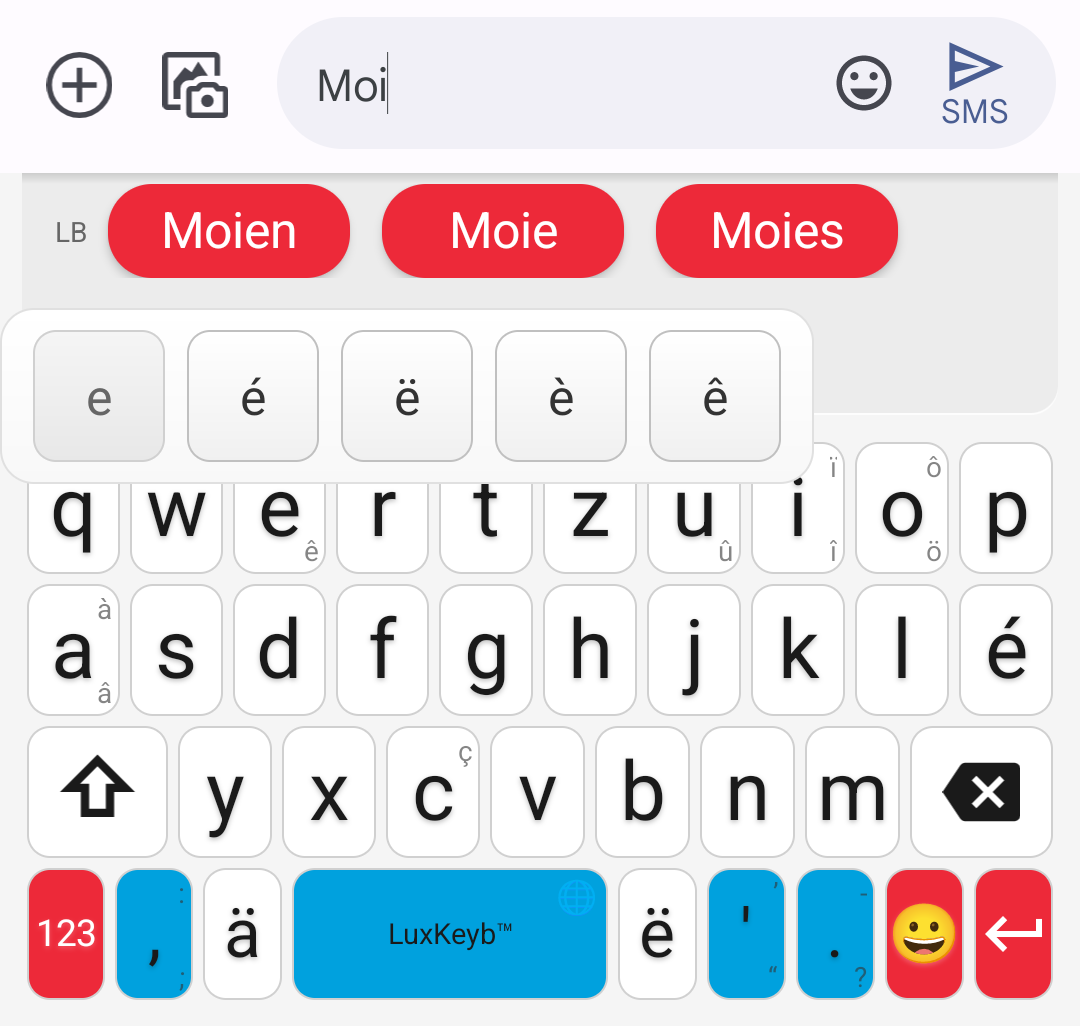
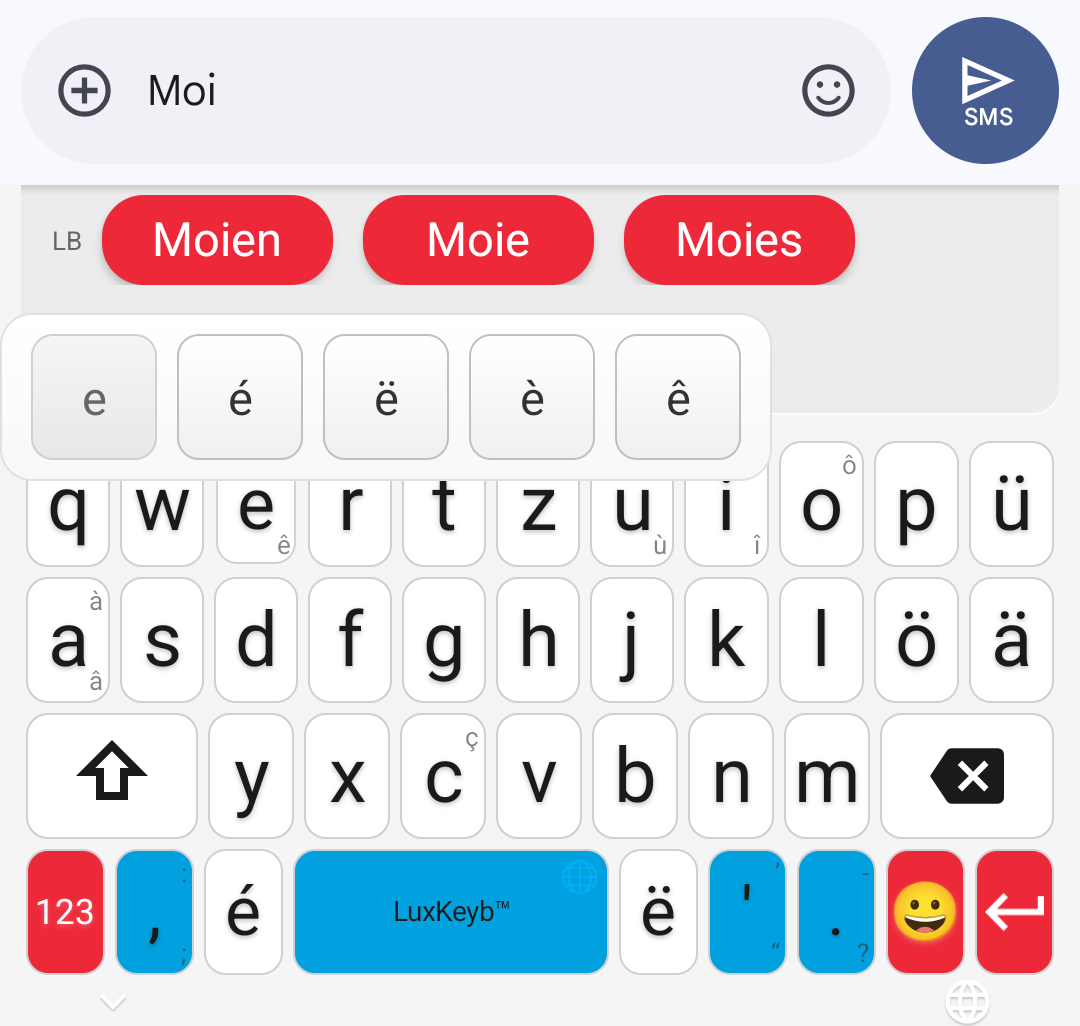
docs(accueil): la page suit la 30.1.0, disposition Suisse allemand par défaut
Touches é ë ä ö ü, Luxembourg au choix, réglages du clavier (disposition,
appui long, propositions en français, thème), rangée française facultative,
dictée en test ouvert sur Google Play. Captures des suggestions et de
l'appui long refaites sur la 30.1.0.

Claude-Session: https://claude.ai/code/session_01SYpbEfMk2KELBQXBqaisjq

diff --git a/docs/presse.html b/docs/presse.html
@@ -184,7 +184,7 @@
       <figcaption>Suggestions bilingues pendant la frappe</figcaption>
     </figure>
     <figure>
-      <img src="Screenshots/lux_accents.png" alt="Disposition QWERTZ du clavier avec les touches dédiées é, ä et ë">
+      <img src="Screenshots/lux_accents.png" alt="Disposition Suisse allemand du clavier, avec les touches dédiées é, ë, ä, ö et ü">
       <figcaption>QWERTZ, accents en touches directes</figcaption>
     </figure>
     <figure>

diff --git a/docs/index.md b/docs/index.md
@@ -1,6 +1,6 @@
 ---
 title: "Lëtzebuergesch Clavier : le clavier luxembourgeois, en ligne et sur Android"
-description: "Clavier luxembourgeois gratuit pour écrire en lëtzebuergesch : suggestions de mots, touches ë ä é, correcteur orthographique, 100 % hors ligne et sans publicité. À essayer dans le navigateur, à installer sur Android."
+description: "Clavier luxembourgeois gratuit pour écrire en lëtzebuergesch : suggestions de mots, touches ë ä é ö ü, correcteur orthographique, 100 % hors ligne et sans publicité. À essayer dans le navigateur, à installer sur Android."
 lang: fr
 ---
 
@@ -46,9 +46,10 @@ installez ensuite l'application Android.</p>
   </tr>
   <tr>
     <td>😤 <strong>« Le ë est caché dans un menu »</strong></td>
-    <td>Plus ici. Les trois diacritiques qui portent la langue, <strong>é</strong>,
-    <strong>ä</strong> et <strong>ë</strong>, ont chacune leur touche, et
+    <td>Plus ici. <strong>é</strong>, <strong>ë</strong>, <strong>ä</strong>,
+    <strong>ö</strong> et <strong>ü</strong> ont chacune leur touche, et
     l'apostrophe de l'élision (<em>d'Land</em>, <em>s'Kanner</em>) la sienne.
+    Les autres accents s'ouvrent d'un appui long de 0,3 seconde.
     Tapez « letzebuergesch » tout court : le clavier vous propose
     « lëtzebuergesch ».</td>
   </tr>
@@ -61,8 +62,11 @@ installez ensuite l'application Android.</p>
   </tr>
 </table>
 
-Les lettres suivent la disposition **QWERTZ**, celle des claviers physiques au
-Luxembourg. Le clavier est **gratuit, open source, sans publicité et entièrement
+Les lettres suivent la disposition **Suisse allemand**, celle du clavier
+physique du même nom : QWERTZ, onze touches par rangée, « ü » à droite du « p »,
+« ö » et « ä » à droite du « l », « é » et « ë » de part et d'autre de la barre
+d'espace. La disposition **Luxembourg**, à dix touches plus larges, reste au
+choix dans les réglages. Le clavier est **gratuit, open source, sans publicité et entièrement
 hors ligne** : il tourne dans le navigateur pour l'essai, et s'installe sur
 Android pour l'usage de tous les jours.
 
@@ -169,7 +173,7 @@ lettres.
   <summary>Installer sans passer par Google Play</summary>
   <p>C'est possible, en installant le fichier à la main :
   <a href="#installer-sans-passer-par-google-play">voir la marche à suivre</a>.
-  Android 5.0 ou plus récent · environ 7 Mo · aucune permission réseau.</p>
+  Android 5.0 ou plus récent · environ 8 Mo · aucune permission réseau.</p>
 </details>
 
 ## Une fois installée, il se passe quoi ?
@@ -243,9 +247,25 @@ phrase.
 
 <p class="note" style="text-align:center;">Le clavier d'essai a sa
 <a href="simulateur.html">page complète</a>, avec la démonstration automatique
-et le compteur de frappes économisées.</p>
+et le compteur de frappes économisées. Il est en disposition Luxembourg, celle
+que l'application propose au choix.</p>
 
 ## Ce qu'il sait faire
+
+### Il se règle à votre main
+
+Dans **Réglages du clavier**, vous choisissez la disposition (Suisse allemand
+ou Luxembourg), le délai de l'appui long qui ouvre les accents (de 0,3 à
+1,2 seconde), les propositions en français, la vibration, le son, et le thème : clair, sombre
+ou comme le téléphone.
+
+<div style="display:flex;justify-content:center;margin:24px 0;">
+  <figure style="margin:0;max-width:560px;text-align:center;">
+    <img src="Screenshots/lux_dispositions_suisse_luxembourg.png" style="width:100%;border-radius:8px;"
+         alt="Les deux dispositions côte à côte : à gauche Suisse allemand, onze touches par rangée avec ü, ö et ä en bout de rangée et é à gauche de la barre d'espace ; à droite Luxembourg, dix touches par rangée avec é en bout de rangée et ä à gauche de la barre d'espace">
+    <figcaption>Suisse allemand, par défaut, et Luxembourg, au choix</figcaption>
+  </figure>
+</div>
 
 ### Il vous souffle les mots
 
@@ -258,7 +278,9 @@ relais à partir de trois lettres si aucun mot luxembourgeois ne correspond.
 Vous n'avez donc rien à changer quand un mot français s'invite dans une phrase
 luxembourgeoise : « ech hunn eng réunion muer » s'écrit sans toucher au clavier.
 Le côté français se limite volontairement aux mots les plus courants : il est là
-pour les emprunts, pas pour rédiger en français.
+pour les emprunts, pas pour rédiger en français. Si vous n'en voulez pas, la
+rangée bleue se coupe dans les réglages et le clavier raccourcit d'autant ; le
+correcteur continue de reconnaître vos mots français.
 
 ### Il pardonne les fautes de frappe
 
@@ -380,11 +402,11 @@ prédiction du mot suivant.
 |---|---|---|---|---|---|---|
 | Luxembourgeois disponible | **Oui** | Oui, vérifié dans l'application | Oui, vérifié sur le S24 Ultra | Oui, liste officielle Microsoft | Oui, dictionnaire à ajouter | Oui, pack séparé |
 | Conçu pour le luxembourgeois | **Oui**, c'est sa seule raison d'être | Une langue parmi 100+ | Une langue parmi 691 | Une langue parmi 700+ | Dictionnaire à ajouter | Pack séparé à installer |
-| Disposition propre à la langue | **Oui**, QWERTZ avec `é` `ä` `ë` en touches pleines | Oui, `é` `ä` `ë` en touches pleines | Non, QWERTZ générique | — | — | — |
+| Disposition propre à la langue | **Oui**, Suisse allemand avec `é` `ë` `ä` `ö` `ü` en touches pleines, ou Luxembourg au choix | Oui, `é` `ä` `ë` en touches pleines | Non, QWERTZ générique | — | — | — |
 | Dictionnaire luxembourgeois | **123 297 formes**, corpus 2026 + LOD | Non communiqué | Non communiqué | Non communiqué | 71 255 mots, figés en 2013 | Non communiqué |
 | Prédiction du mot suivant | **Oui**, 27 746 contextes | Oui | Oui | Oui | Non, en luxembourgeois | Basique |
 | Prédiction mesurée sur un Galaxy A21s | 20,2 % de mots justes dans les 3 | 13,4 % | 17,7 % | — | — | — |
-| Deux langues sans rien régler | **Oui**, deux rangées `LB` et `FR` simultanées | Jusqu'à 3 langues, à activer | Plusieurs langues, à activer | Jusqu'à 5 langues, à activer | 1 langue secondaire, à activer | — |
+| Deux langues sans rien régler | **Oui**, deux rangées `LB` et `FR` simultanées, la seconde facultative | Jusqu'à 3 langues, à activer | Plusieurs langues, à activer | Jusqu'à 5 langues, à activer | 1 langue secondaire, à activer | — |
 | Pardonne les fautes de frappe | **Oui** | Oui | Oui | Oui | Oui | Oui |
 | Écriture sans diacritiques | **Oui** | — | — | — | — | — |
 | Correcteur système (lb) | **Oui** | Oui | Dans le clavier | — | Non | Non |
@@ -415,9 +437,9 @@ Le clavier d'Apple n'apparaît pas dans ce tableau parce qu'il ne propose
 pas encore le luxembourgeois : voir le
 [comparatif détaillé face à Gboard et à Apple](comparatif.html).
 
-**Ce qu'il ne fait pas encore.** Pas de saisie glissée, pas de dictée, et pas
-de dictionnaire allemand à côté du français. Ces manques
-sont réels et connus ; ils sont en tête de la liste des choses à faire.
+**Ce qu'il ne fait pas encore.** Pas de saisie glissée, et pas de dictionnaire
+allemand à côté du français. Ces manques sont réels et connus ; ils sont en tête
+de la liste des choses à faire. La dictée vocale est en test, voir plus bas.
 
 ## D'où viennent les suggestions
 
@@ -465,15 +487,15 @@ L'APK de cette page reste disponible et contient exactement le même code.
 
 ## En avant-première : la dictée vocale 🔬
 
-À côté de la version stable, **Labs** propose des versions expérimentales, en
-avance sur elle. Celle du moment ajoute la **dictée vocale luxembourgeoise** :
-vous parlez, le clavier écrit.
+La version 31.0.0, en **test ouvert sur Google Play**, ajoute la **dictée vocale
+luxembourgeoise** : vous parlez, le clavier écrit.
 
 La reconnaissance est assurée par **LuxASR**, le service de l'Université du
 Luxembourg : pendant la dictée, et seulement pendant la dictée, votre voix est
-envoyée à son serveur, qui la transforme en texte. C'est une version d'essai, à
-installer à part : la version stable, celle du Play Store, n'a toujours aucune
-permission réseau, et rien de ce que vous y tapez ne quitte le téléphone.
+envoyée à son serveur, qui la transforme en texte. En rejoignant le test, votre
+téléphone reçoit cette version à la place de la version publique. La version
+publique, elle, n'a aucune permission réseau, et rien de ce que vous y tapez ne
+quitte le téléphone.
 
 <p style="margin:22px 0;">
   <a href="labs.html" class="btn">🔬 Découvrir la version Labs</a>
